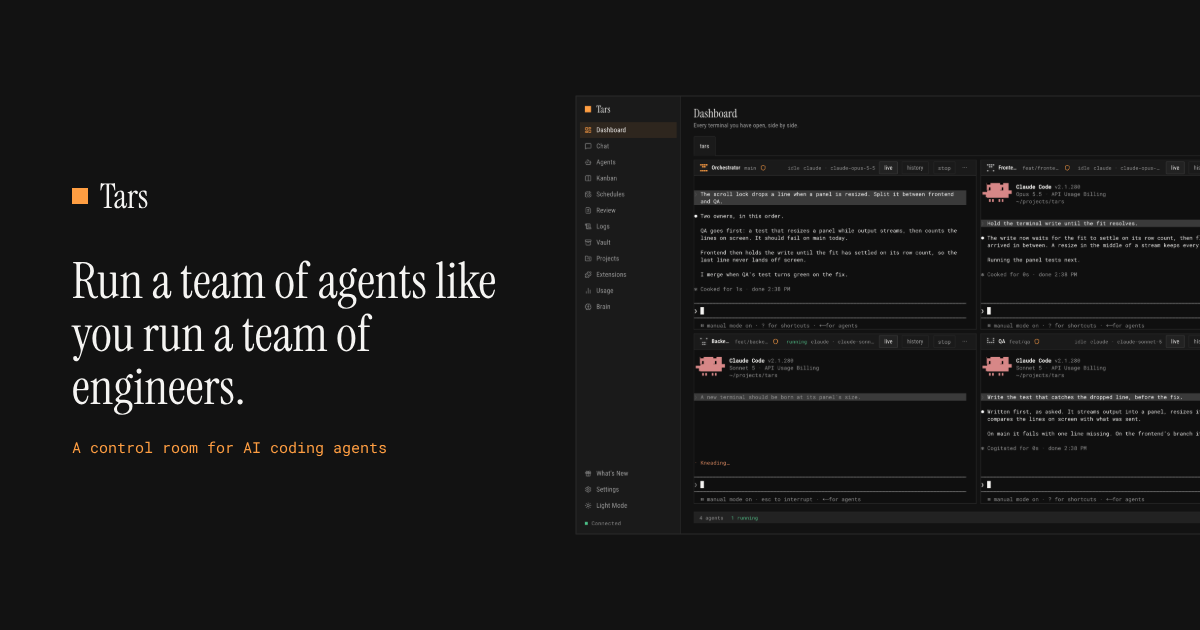
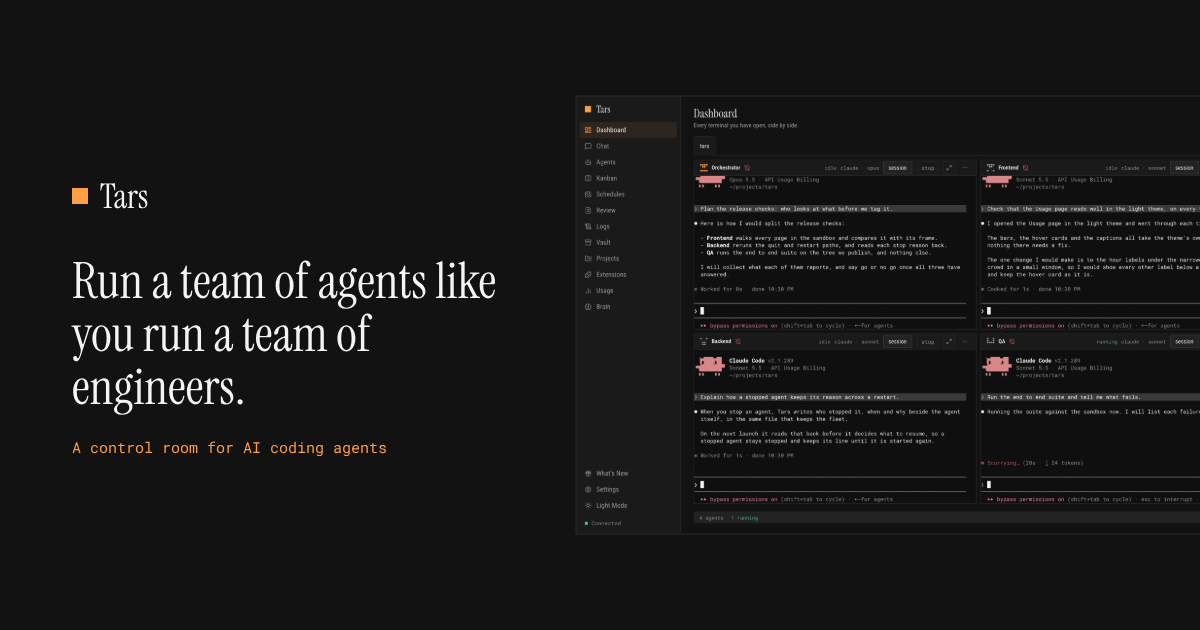
chore: the landing says what 1.9.2 shipped, and its picture is the dashboard as it ships, four real claude code sessions

diff --git a/landing/src/app/page.tsx b/landing/src/app/page.tsx
@@ -10,7 +10,7 @@ import { SiteNav } from '@/components/SiteNav';
 const FEATURES = [
   {
     title: 'Every agent, one screen',
-    body: 'Real terminals in a grid, grouped by project. Watch six agents work at once, jump into any of them, broadcast one instruction to all.',
+    body: 'Real terminals in a grid, grouped by project. Watch six agents work at once, open any of them fullscreen in one press, broadcast one instruction to all.',
   },
   {
     title: 'Someone watching the whole thing',
@@ -34,7 +34,15 @@ const FEATURES = [
   },
   {
     title: 'See what they actually did',
-    body: 'A diff review of every branch, one search across the whole fleet\u2019s output, and per-provider spend against the budget you set.',
+    body: 'A diff review of every branch, one search across the fleet\u2019s output as each terminal showed it, and spend hour by hour or day by day, per provider and against the budget you set, beside each Claude account\u2019s 5 h and weekly limits.',
+  },
+  {
+    title: 'Several Claude subscriptions',
+    body: 'Run your Claude agents on up to five subscriptions. Each starts on the account with the most room left, and one cut short by a limit carries on from another account, in the same conversation.',
+  },
+  {
+    title: 'When an agent stops, or stalls',
+    body: 'Stop one with a reason, and its card, panel and window say who stopped it, when and why. One that reads running but has written nothing for 30 minutes and runs no command is marked stalled, and its orchestrator is told.',
   },
 ];
 
